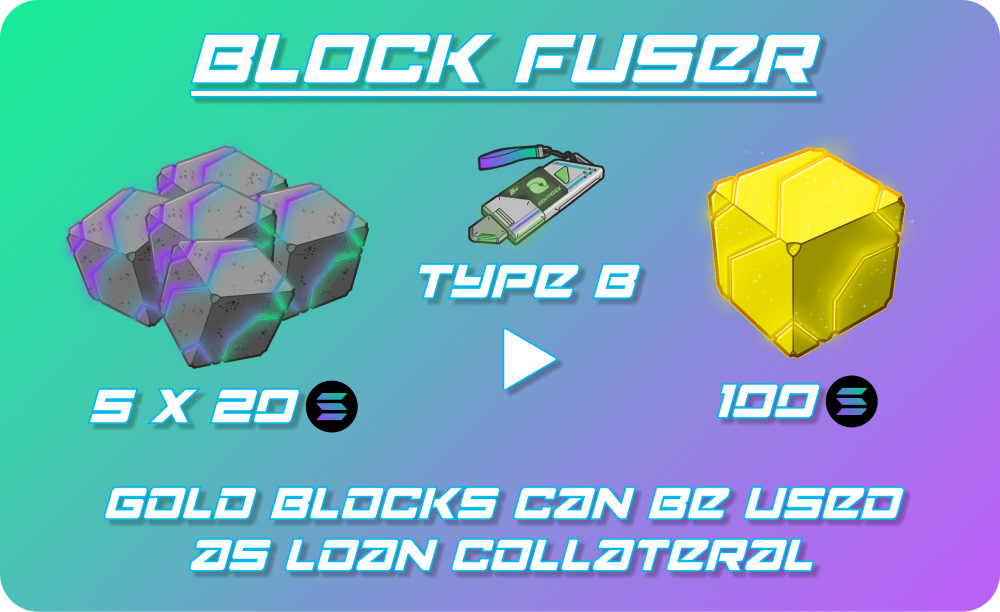
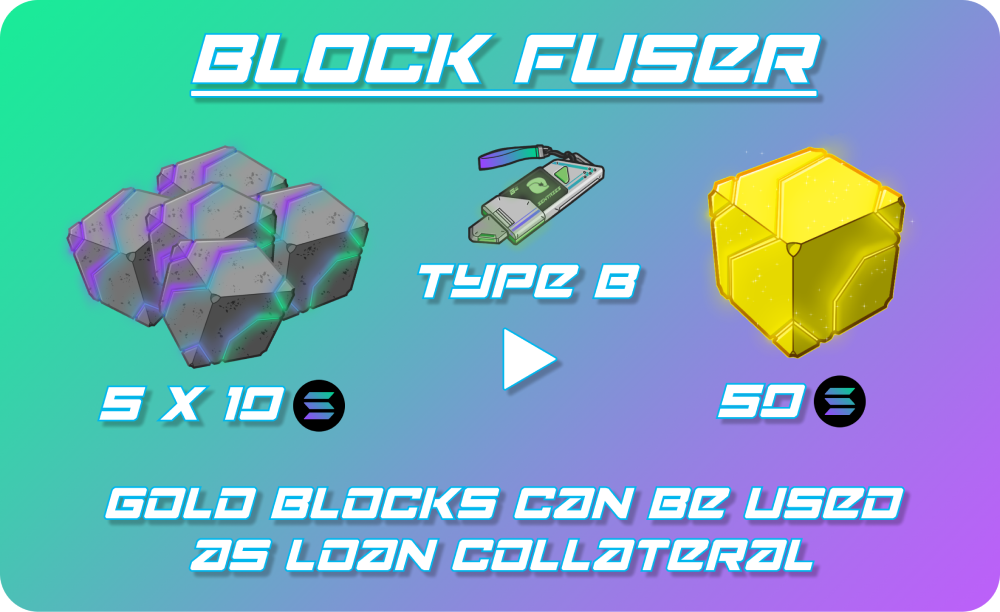
GitBook: [#44] No subject

Changed region(s): [[0.093, 0.6209, 0.372, 0.7141], [0.713, 0.5899, 0.899, 0.7141]]

diff --git a/project-objectives/3.-power-blocks.md b/project-objectives/3.-power-blocks.md
@@ -14,7 +14,7 @@ Each **Power Block** has a **Power Rating** **trait** that corresponds to an **a
 
 **If the SentryDAO ever votes to shut down The Lode, all Power Block holders will be able to burn their Blocks for an amount of SOL equal to their Power Rating.**
 
-![The Power Rating and SOL backing of each Power Block.](<../.gitbook/assets/Block Value2.png>)
+![The Power Rating and SOL backing of each Power Block.](broken-reference)
 
 A 3**% royalty** is encoded into Power Blocks' metadata, 2% of which will be injected into the **Power Grid**.
 

diff --git a/project-objectives/4.-advanced-lode-functions.md b/project-objectives/4.-advanced-lode-functions.md
@@ -22,7 +22,7 @@ Holders of at least **1** [**Sentry PFP**](../sentries-pfps.md)**+**[**Lode Link
 
 * 4x Blue Power Blocks = 1 Red Power Block
 * 5x Red Power Blocks = 1 Solana Power Block
-* 10x Solana Power Blocks = 1 Golden Power Block
+* 5x Solana Power Blocks = 1 Golden Power Block
 
 **Golden Power Blocks** that may be used as **SOL loan collateral**.
 
